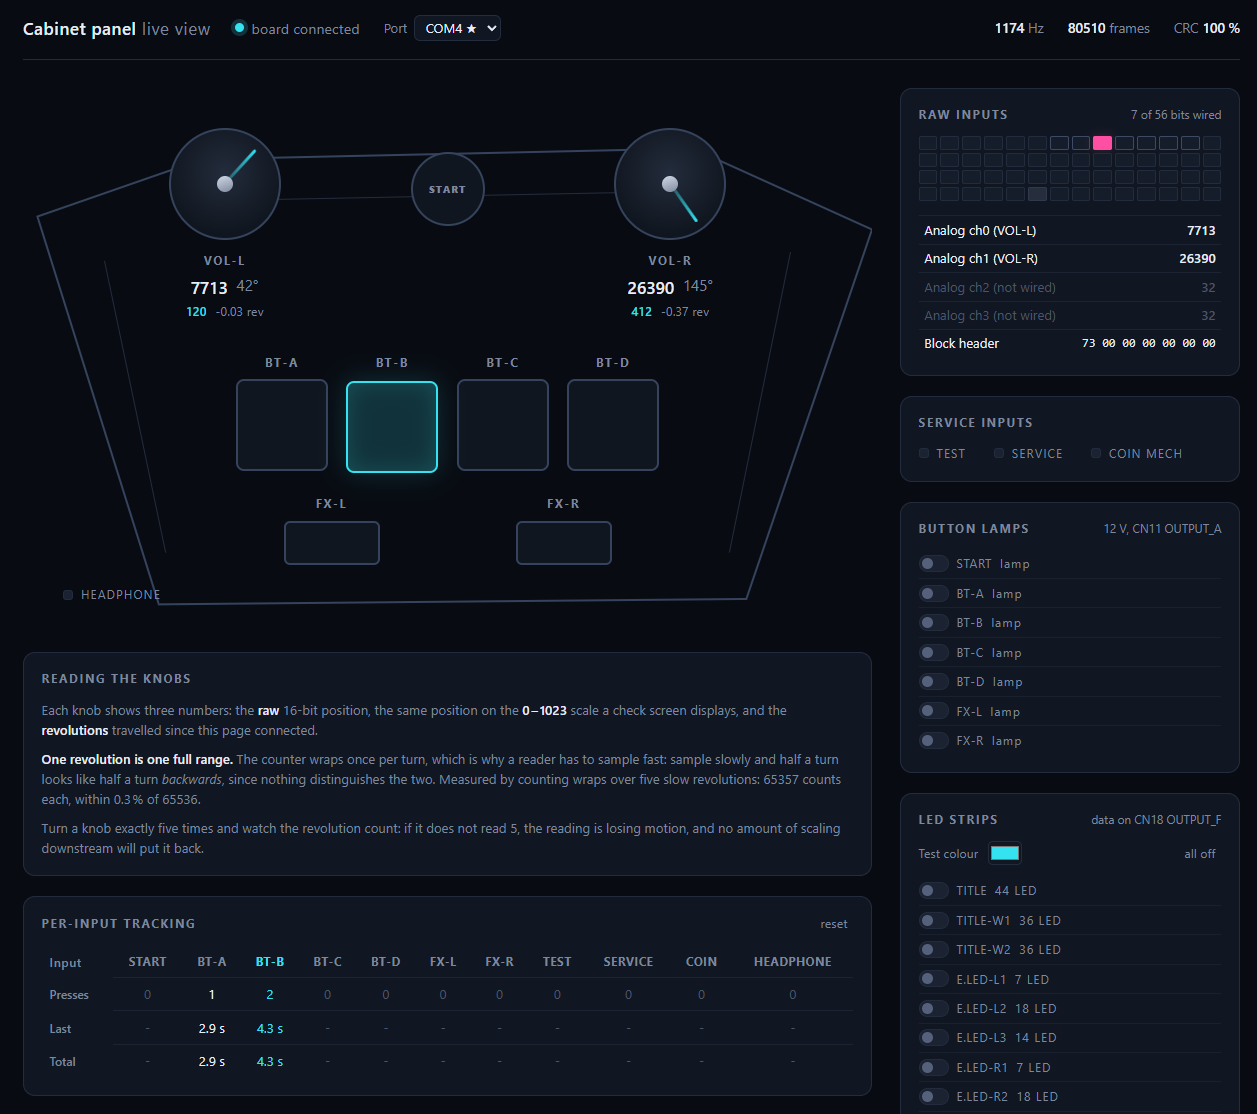
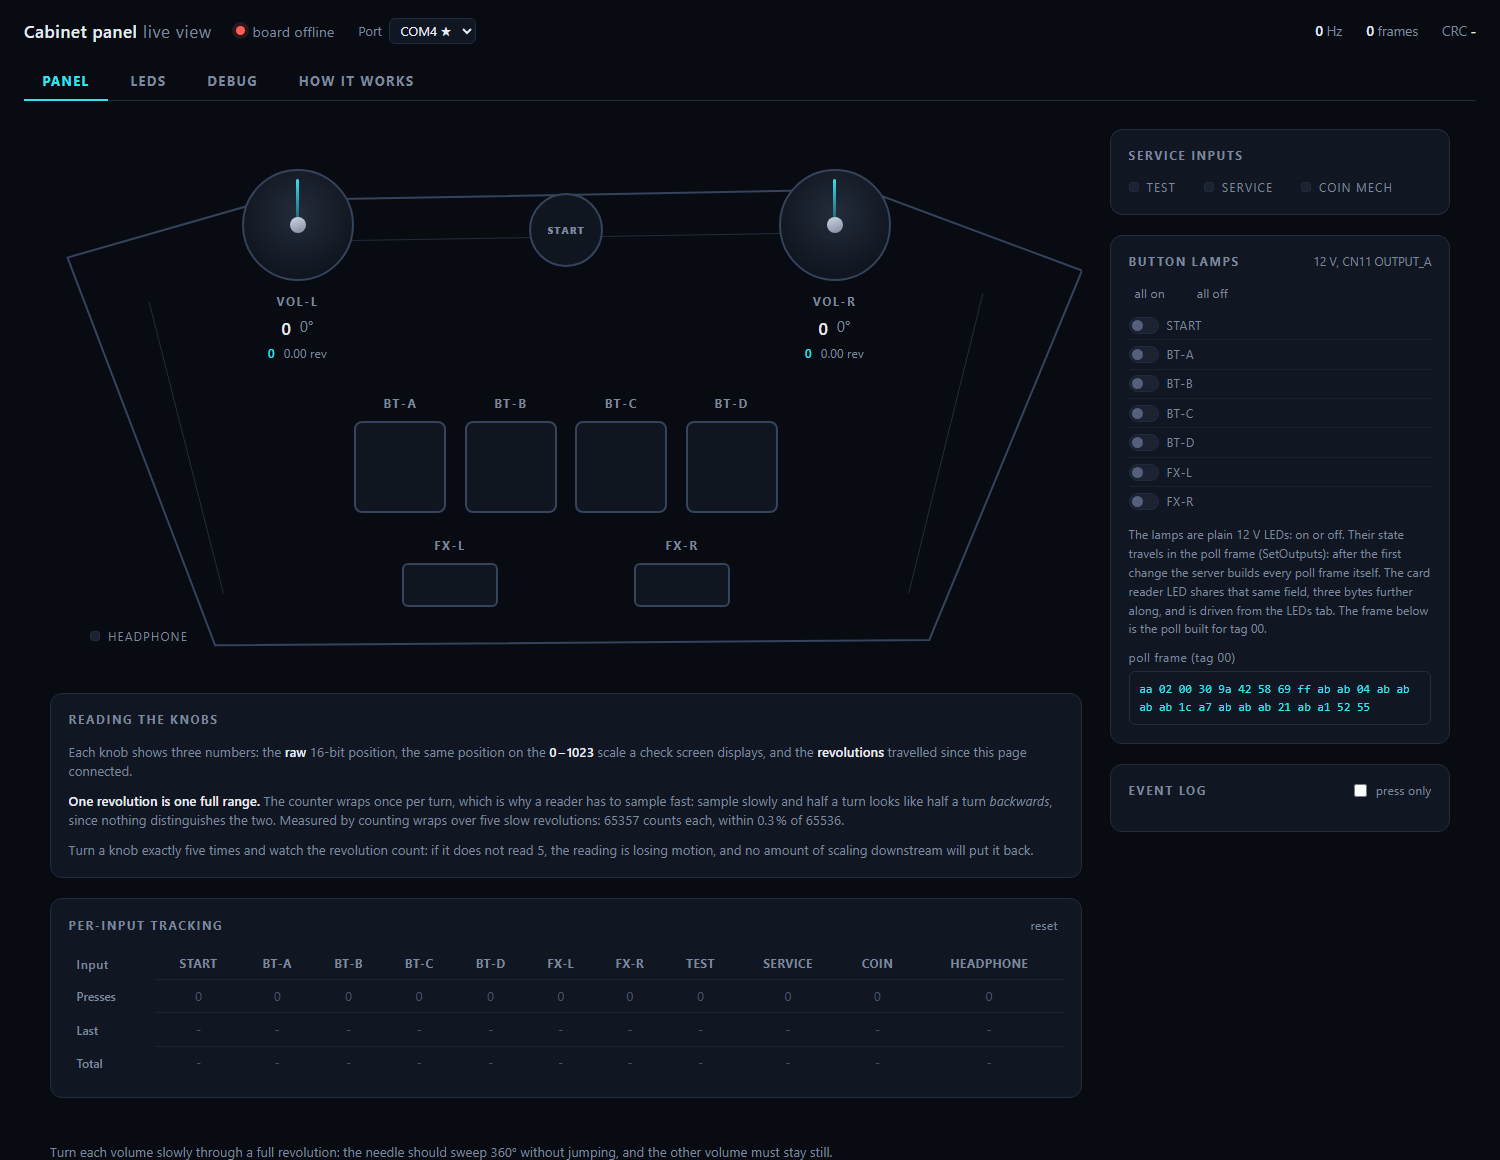
docs: refresh the panel shot, add one per tab that earned it
The old shot predates the tabs and shows a strip list the panel no longer has.
The new ones are taken with no board attached, so every reading sits at zero,
and the README says so rather than letting the picture imply a live session.

Three now: the inputs view, the LEDs tab with the patterns and the reader, and
the whole How it works page, header and tabs cropped out since the page is the
subject.

diff --git a/README.md b/README.md
@@ -55,9 +55,20 @@ python bi2x/client.py           # console output
 
 The serial port is exclusive. Close all other programs that use the board first.
 
-The image below shows the web panel.
+The panel opens on the live view of the inputs. The shots below were taken with no board attached,
+which is why every reading sits at zero.
 
-![The bi2x-lab web panel, live view](media/web-interface-preview.png)
+![The bi2x-lab web panel, live view of the inputs](media/web-interface-preview.png)
+
+The LEDs tab drives the outputs: the cabinet's own lighting patterns, a colour and an intensity per
+strip, and the card reader LED.
+
+![The LEDs tab: cabinet patterns, the per-strip bench, the card reader](media/led-patterns.png)
+
+The How it works tab is a walk through the protocol itself, from the poll to the latch, with the
+bytes of a real frame at every step.
+
+![The How it works tab, both directions of the protocol step by step](media/how-it-works.png)
 
 The live tools send request frames to poll the board. The request payload is compressed; that
 compression is now implemented in `bi2x/encoder.py`, but the tools still replay recorded requests
